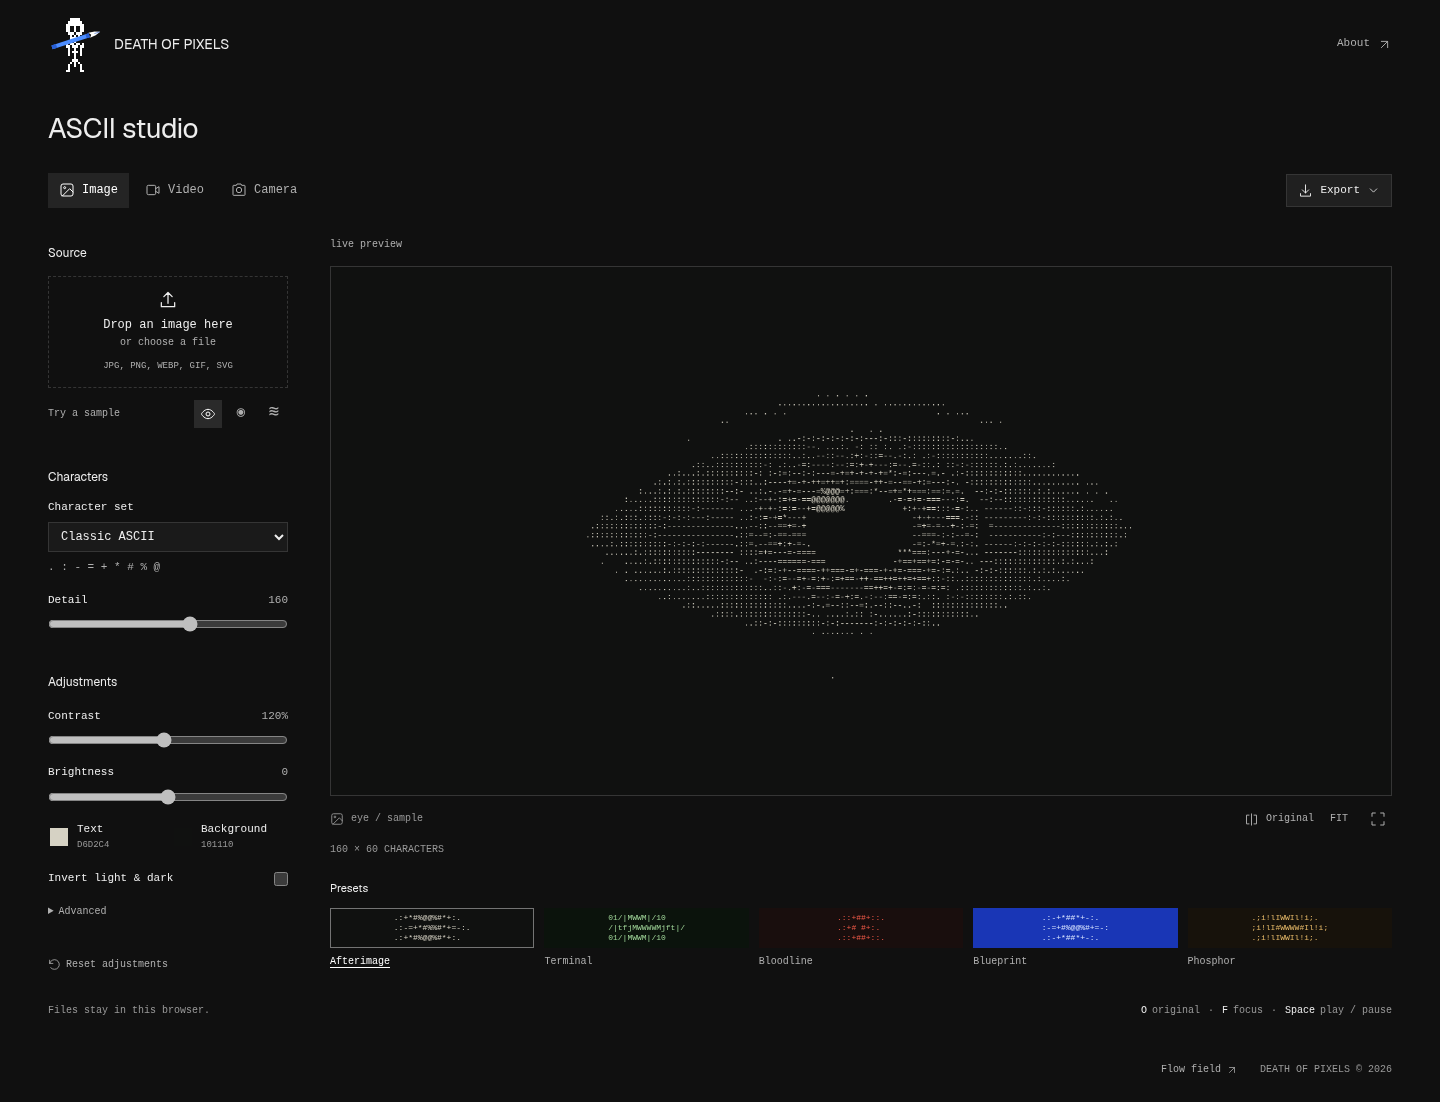
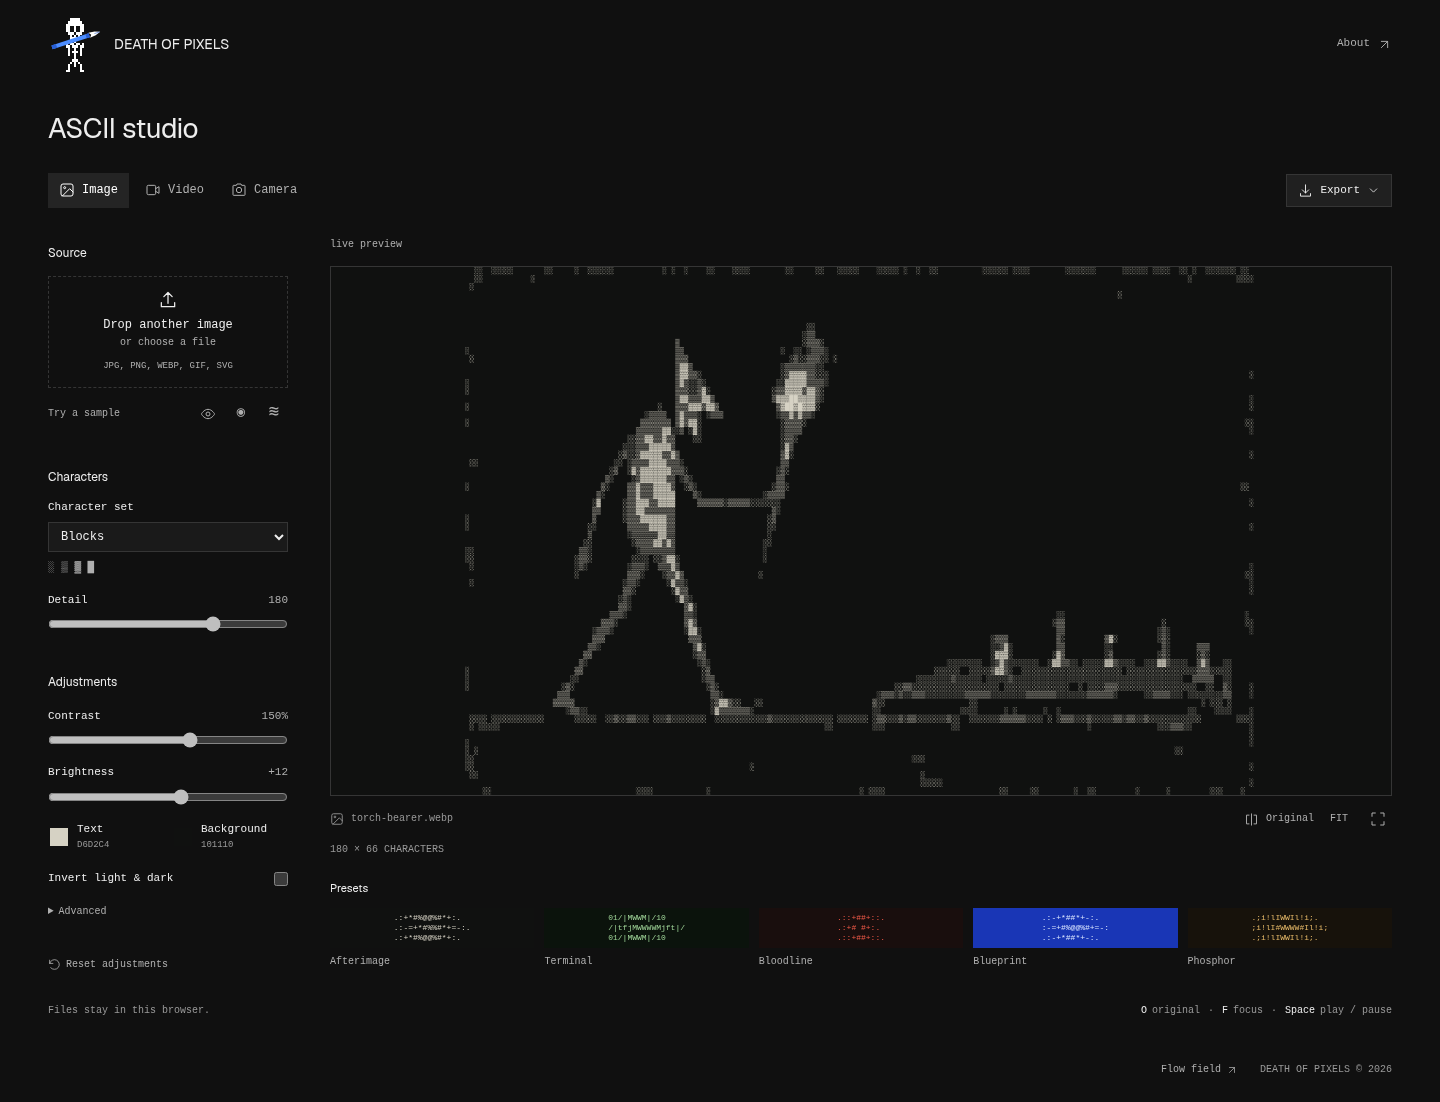
Show torch-bearer artwork in README studio preview
Replace the eye sample screenshot with the cursor-faced figure carrying
a torch toward a chessboard, rendered through the ASCII studio.
Include the source artwork and generation prompt, and link the preview
to the original image.

diff --git a/README.md b/README.md
@@ -4,7 +4,7 @@ To make ASCII art with a few clear controls and keep the source files on your de
 
 Start with an image, a video, or your camera. Adjust the characters, light, and color. Save the result. Everything runs in your browser.
 
-![The ASCII studio showing the built-in eye sample, controls, and presets](docs/media/studio.png)
+[![The ASCII studio rendering a cursor-faced, egg-shaped figure carrying a torch toward a chessboard in an Egyptian-inspired scene](docs/media/studio.png)](docs/media/torch-bearer.webp)
 
 ## Run
 
